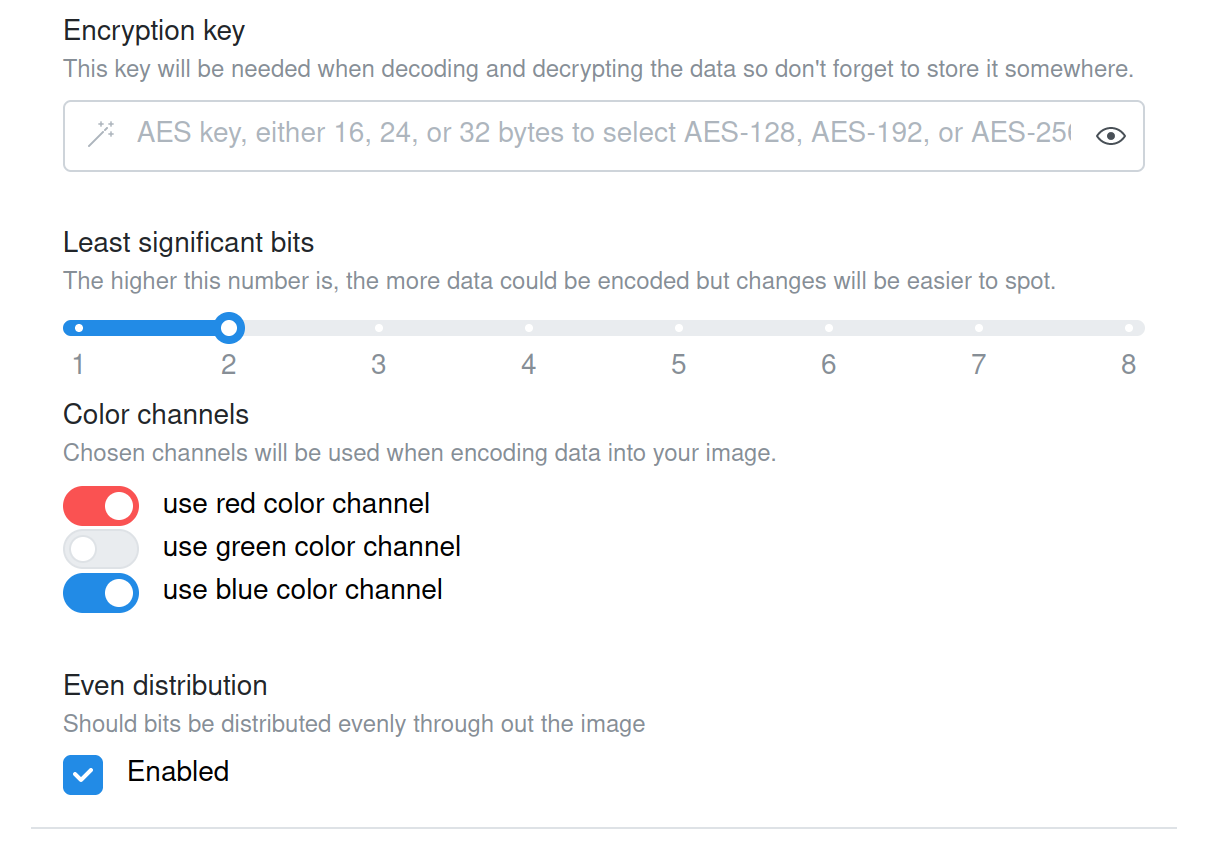
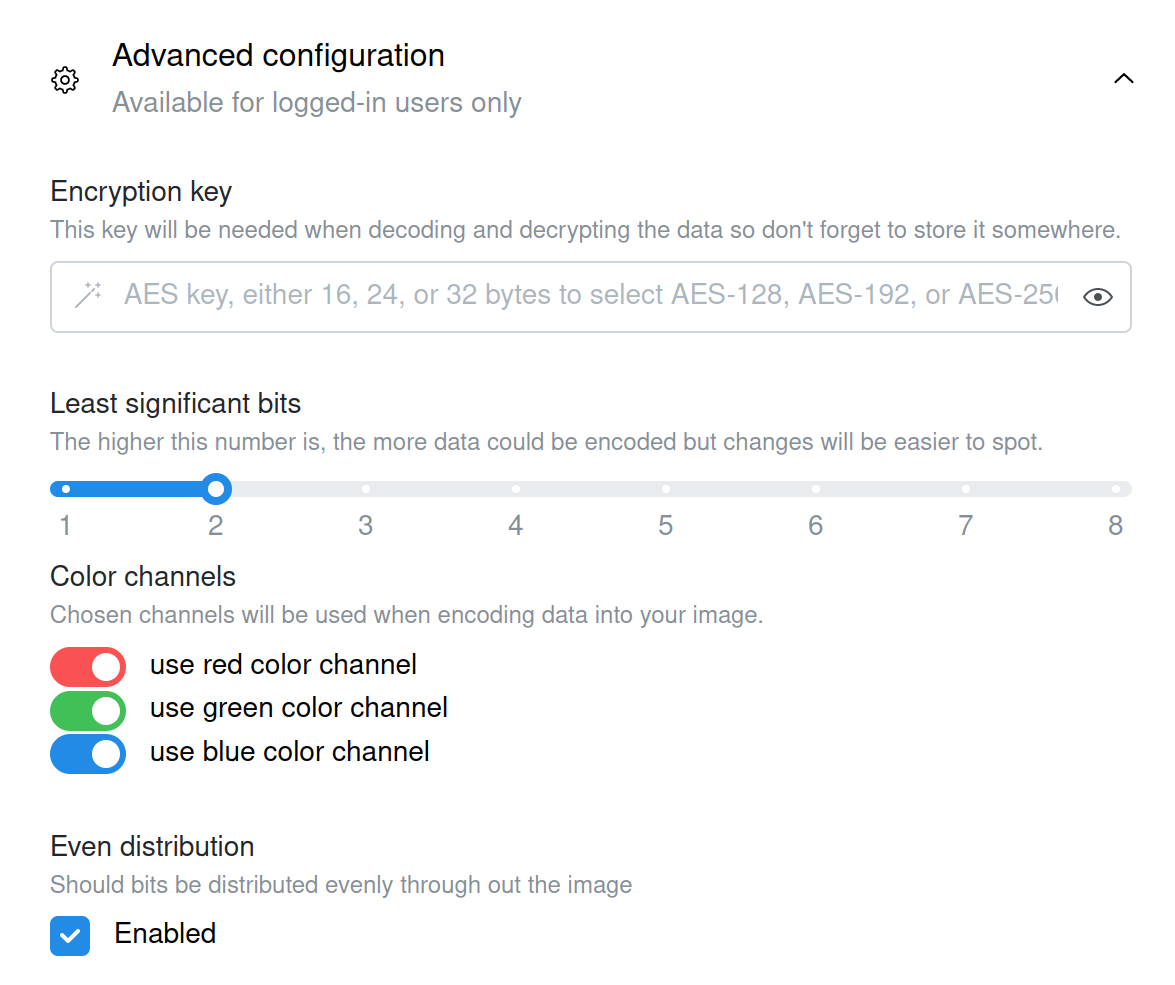
replace encode-configuration image

Changed region(s): [[0.0306, 0.0304, 0.9498, 0.9742], [0.9191, 0.274, 0.9498, 0.3044], [0.674, 0.5176, 0.7047, 0.548]]

diff --git a/src/documentation.tex b/src/documentation.tex
@@ -7,7 +7,7 @@
 Na adrese \url{https://stegoer.netlify.app/docs} se nachazí odkazy na všechny
 materiály spojené s dokumentací projektu.
 
-Po načtení stránky se zobrazí Accordion\cite{enwiki:accordion}.
+Po načtení stránky se zobrazí accordion\cite{enwiki:accordion}.
 Ten je rozdělen na 3 části a každá odpovídá jednomu repozitáři.
 Po kliknutí na sekci se daná sekce rozšíří a odkazy se zpřístupní.
 

diff --git a/src/steganography.tex b/src/steganography.tex
@@ -71,7 +71,7 @@ Editor umožňuje mnoho možností pro formátování textu a například i nahr
 obrázku (lze zakódovat i více obrázků do jednoho obrázku).
 Z editoru dostane aplikace zpět HTML, které se pak pošle na server.
 
-\begin{figure}
+\begin{figure}[h]
     \centering
     \includegraphics[scale=0.5]{assets/images/encode-editor}
     \caption{Editor textu pro data k zakódování}\label{fig:editor-textu}
